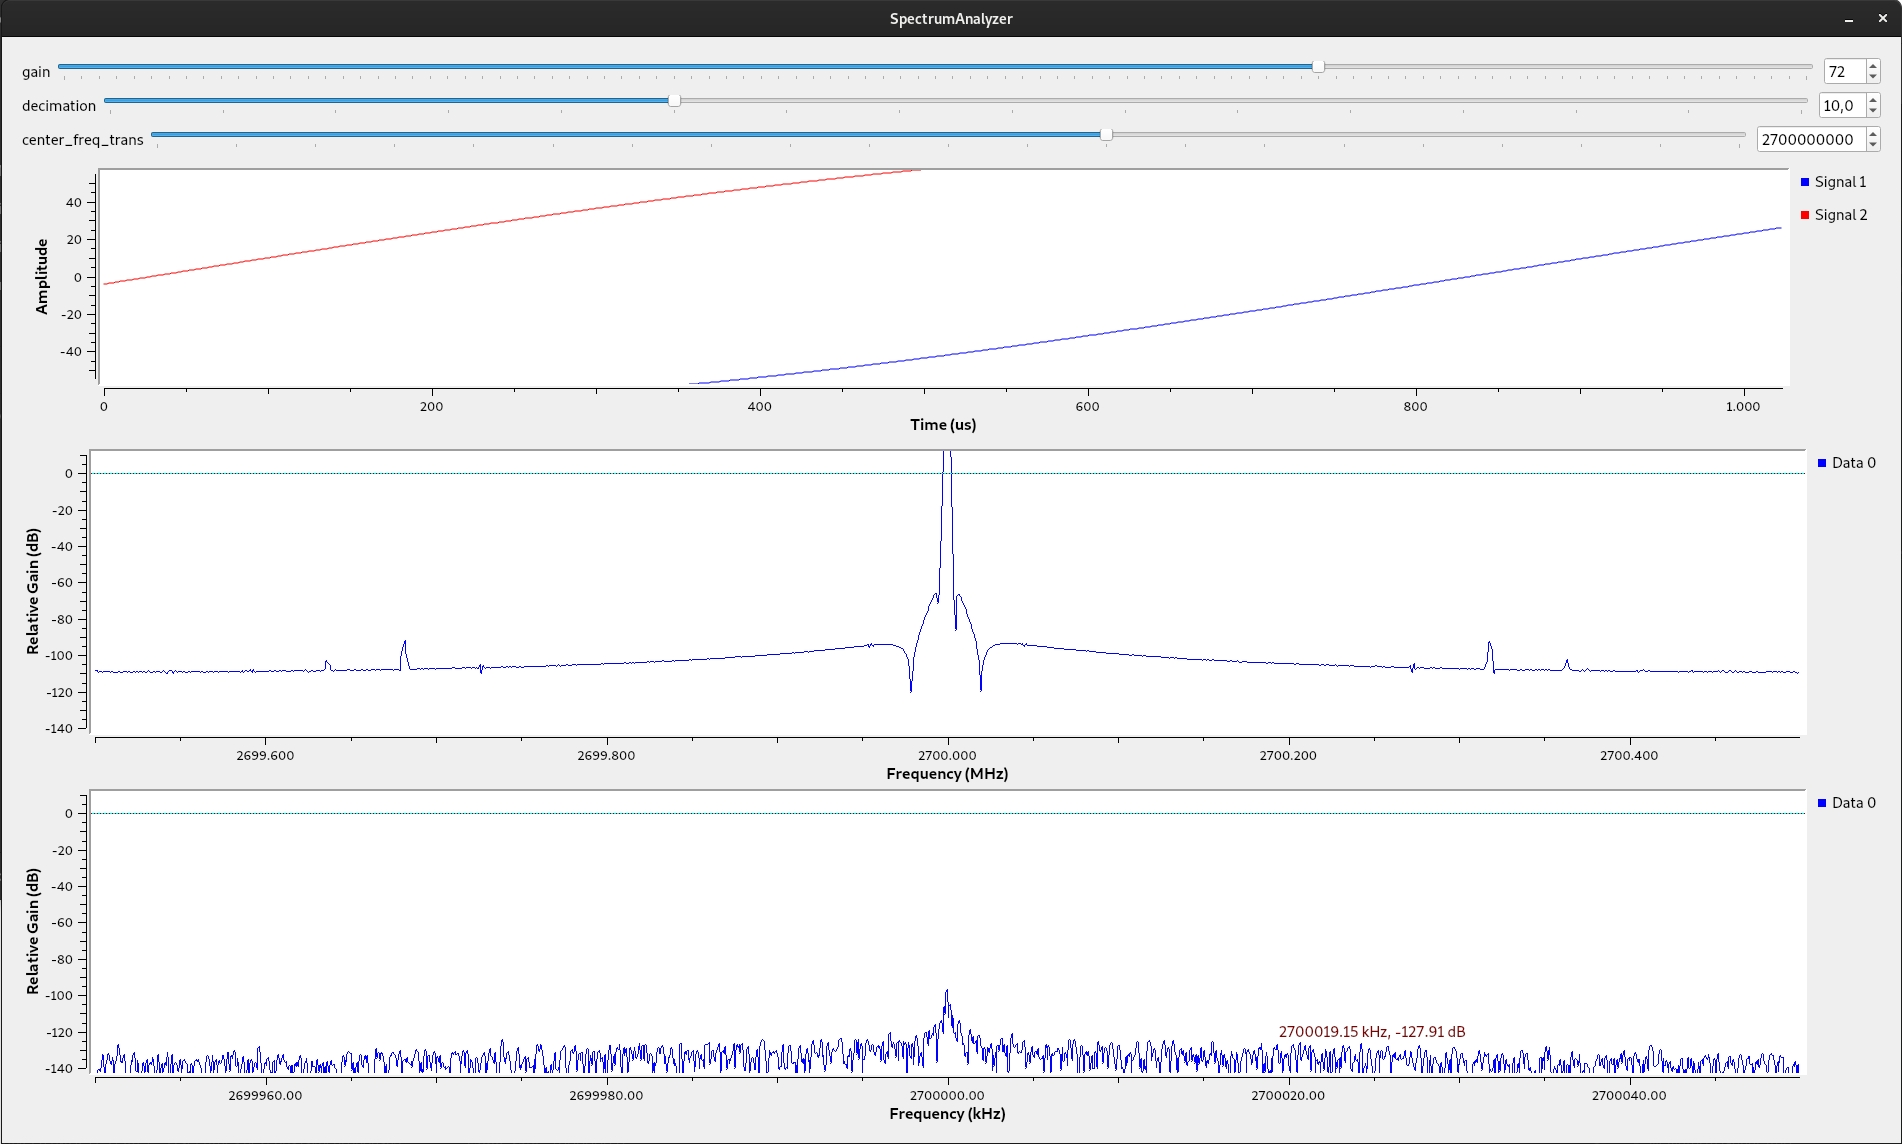
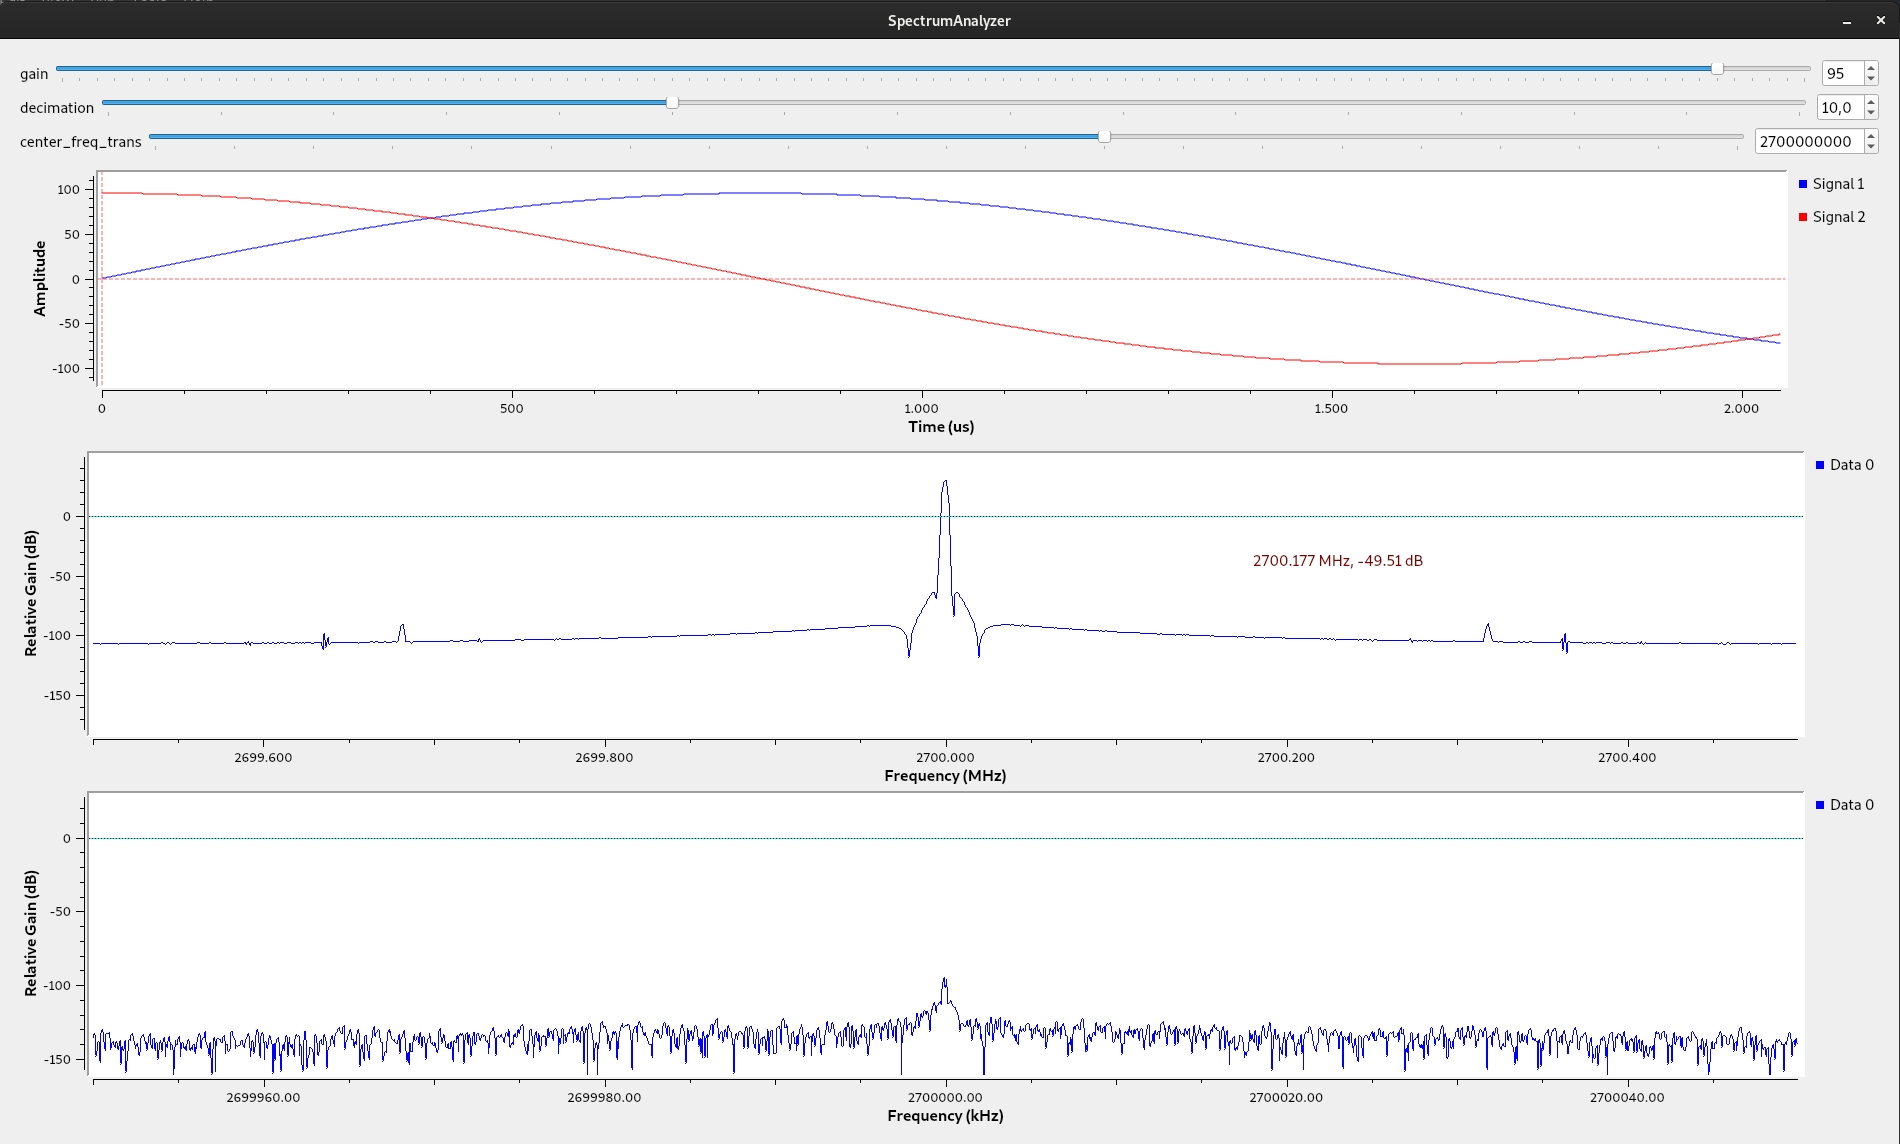
Filtering analyzer

diff --git a/Transmissions/SpectrumAnalyzer/spectrum_analyzer.py b/Transmissions/SpectrumAnalyzer/spectrum_analyzer.py
@@ -28,6 +28,7 @@ from gnuradio.filter import firdes
 import sip
 from gnuradio import analog
 from gnuradio import blocks
+from gnuradio import filter
 from gnuradio import gr
 from gnuradio.fft import window
 import sys
@@ -81,7 +82,7 @@ class spectrum_analyzer(gr.top_block, Qt.QWidget):
         # Variables
         ##################################################
         self.transition_bw = transition_bw = 1
-        self.samp_rate = samp_rate = 1e6
+        self.samp_rate = samp_rate = 3.4e6
         self.gain = gain = 50
         self.decimation = decimation = 10
         self.center_freq_trans = center_freq_trans = 2e9
@@ -128,7 +129,7 @@ class spectrum_analyzer(gr.top_block, Qt.QWidget):
         self.uhd_usrp_sink_0.set_antenna("TX/RX", 0)
         self.uhd_usrp_sink_0.set_gain(gain/2, 0)
         self.qtgui_time_sink_x_0 = qtgui.time_sink_c(
-            1024, #size
+            2048, #size
             samp_rate, #samp_rate
             "", #name
             1, #number of inputs
@@ -140,8 +141,8 @@ class spectrum_analyzer(gr.top_block, Qt.QWidget):
         self.qtgui_time_sink_x_0.set_y_label('Amplitude', "")
 
         self.qtgui_time_sink_x_0.enable_tags(True)
-        self.qtgui_time_sink_x_0.set_trigger_mode(qtgui.TRIG_MODE_FREE, qtgui.TRIG_SLOPE_POS, 0.0, 0, 0, "")
-        self.qtgui_time_sink_x_0.enable_autoscale(False)
+        self.qtgui_time_sink_x_0.set_trigger_mode(qtgui.TRIG_MODE_AUTO, qtgui.TRIG_SLOPE_POS, 0.0, 0, 0, "")
+        self.qtgui_time_sink_x_0.enable_autoscale(True)
         self.qtgui_time_sink_x_0.enable_grid(False)
         self.qtgui_time_sink_x_0.enable_axis_labels(True)
         self.qtgui_time_sink_x_0.enable_control_panel(False)
@@ -221,7 +222,7 @@ class spectrum_analyzer(gr.top_block, Qt.QWidget):
         self._qtgui_freq_sink_x_1_win = sip.wrapinstance(self.qtgui_freq_sink_x_1.pyqwidget(), Qt.QWidget)
         self.top_layout.addWidget(self._qtgui_freq_sink_x_1_win)
         self.qtgui_freq_sink_x_0 = qtgui.freq_sink_c(
-            2048, #size
+            1024, #size
             window.WIN_BLACKMAN_hARRIS, #wintype
             center_freq_trans, #fc
             samp_rate/decimation, #bw
@@ -263,6 +264,16 @@ class spectrum_analyzer(gr.top_block, Qt.QWidget):
         self._qtgui_freq_sink_x_0_win = sip.wrapinstance(self.qtgui_freq_sink_x_0.pyqwidget(), Qt.QWidget)
         self.top_layout.addWidget(self._qtgui_freq_sink_x_0_win)
         self.blocks_throttle_0 = blocks.throttle(gr.sizeof_gr_complex*1, samp_rate,True)
+        self.band_pass_filter_0 = filter.fir_filter_ccf(
+            decimation,
+            firdes.band_pass(
+                1,
+                samp_rate,
+                samp_rate/3-40,
+                samp_rate/3+400,
+                100,
+                window.WIN_HAMMING,
+                6.76))
         self.analog_sig_source_x_1 = analog.sig_source_c(samp_rate, analog.GR_COS_WAVE, center_freq_trans, gain, 0, 0)
 
 
@@ -273,8 +284,9 @@ class spectrum_analyzer(gr.top_block, Qt.QWidget):
         self.connect((self.analog_sig_source_x_1, 0), (self.blocks_throttle_0, 0))
         self.connect((self.analog_sig_source_x_1, 0), (self.qtgui_freq_sink_x_1, 0))
         self.connect((self.analog_sig_source_x_1, 0), (self.qtgui_time_sink_x_0, 0))
+        self.connect((self.band_pass_filter_0, 0), (self.qtgui_freq_sink_x_0, 0))
         self.connect((self.blocks_throttle_0, 0), (self.uhd_usrp_sink_0, 0))
-        self.connect((self.uhd_usrp_source_0, 0), (self.qtgui_freq_sink_x_0, 0))
+        self.connect((self.uhd_usrp_source_0, 0), (self.band_pass_filter_0, 0))
 
 
     def closeEvent(self, event):
@@ -303,6 +315,7 @@ class spectrum_analyzer(gr.top_block, Qt.QWidget):
         self.qtgui_time_sink_x_0.set_samp_rate(self.samp_rate)
         self.uhd_usrp_sink_0.set_samp_rate(self.samp_rate)
         self.uhd_usrp_source_0.set_samp_rate(self.samp_rate)
+        self.band_pass_filter_0.set_taps(firdes.band_pass(1, self.samp_rate, self.samp_rate/3-40, self.samp_rate/3+400, 100, window.WIN_HAMMING, 6.76))
 
     def get_gain(self):
         return self.gain
